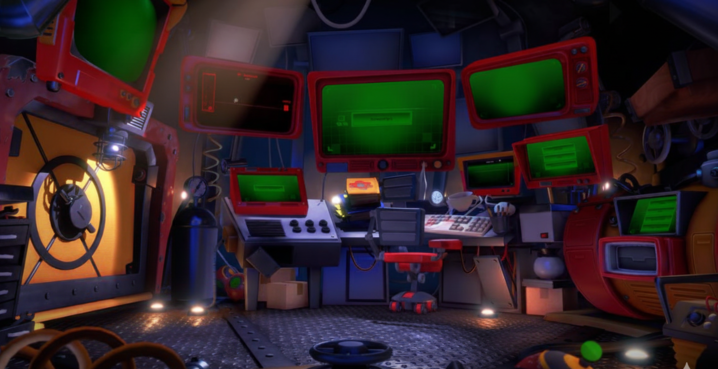
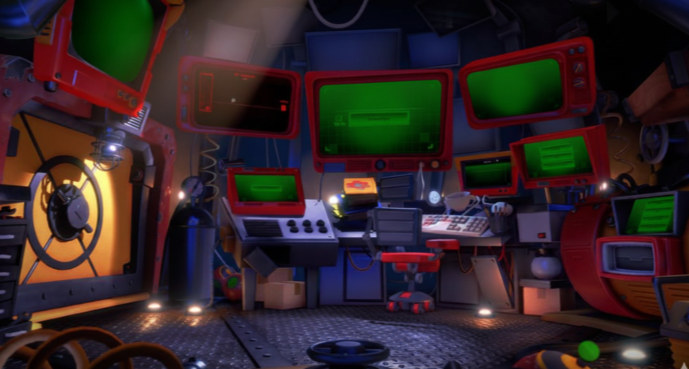
imagenes redimensionadas y scroll

diff --git a/js/index.js b/js/index.js
@@ -7,6 +7,8 @@ let enemyImg     = document.getElementById("enemyImg");
 let divRoomName  = document.getElementById("nameRoom");
 let divStats     = document.getElementById("divStacs");
 let divMessages  = document.getElementById("log");
+const messagesContainer = document.getElementById("divMessages");
+
 
 // obtención de los botones para asignarles eventos
 let btnNorth  = document.getElementById("btnNorth");
@@ -31,7 +33,7 @@ function writeLog(text) {
     p.textContent = text;
     divMessages.appendChild(p);
     // hace scroll automáticamente para mostrar el último mensaje
-    divMessages.scrollTop = divMessages.scrollHeight;
+    messagesContainer.scrollTop = messagesContainer.scrollHeight;
 }
 
 // actualiza la imagen y el nombre de la habitación en la interfaz

diff --git a/css/styles.css b/css/styles.css
@@ -102,6 +102,7 @@ body {
   overflow-y: auto;
   /* personaliza el color de la barra de desplazamiento en firefox */
   scrollbar-color: #005500 #051505;
+  scroll-behavior: smooth;
 }
 
 /* estas reglas personalizan la barra de desplazamiento en navegadores como chrome y safari */
